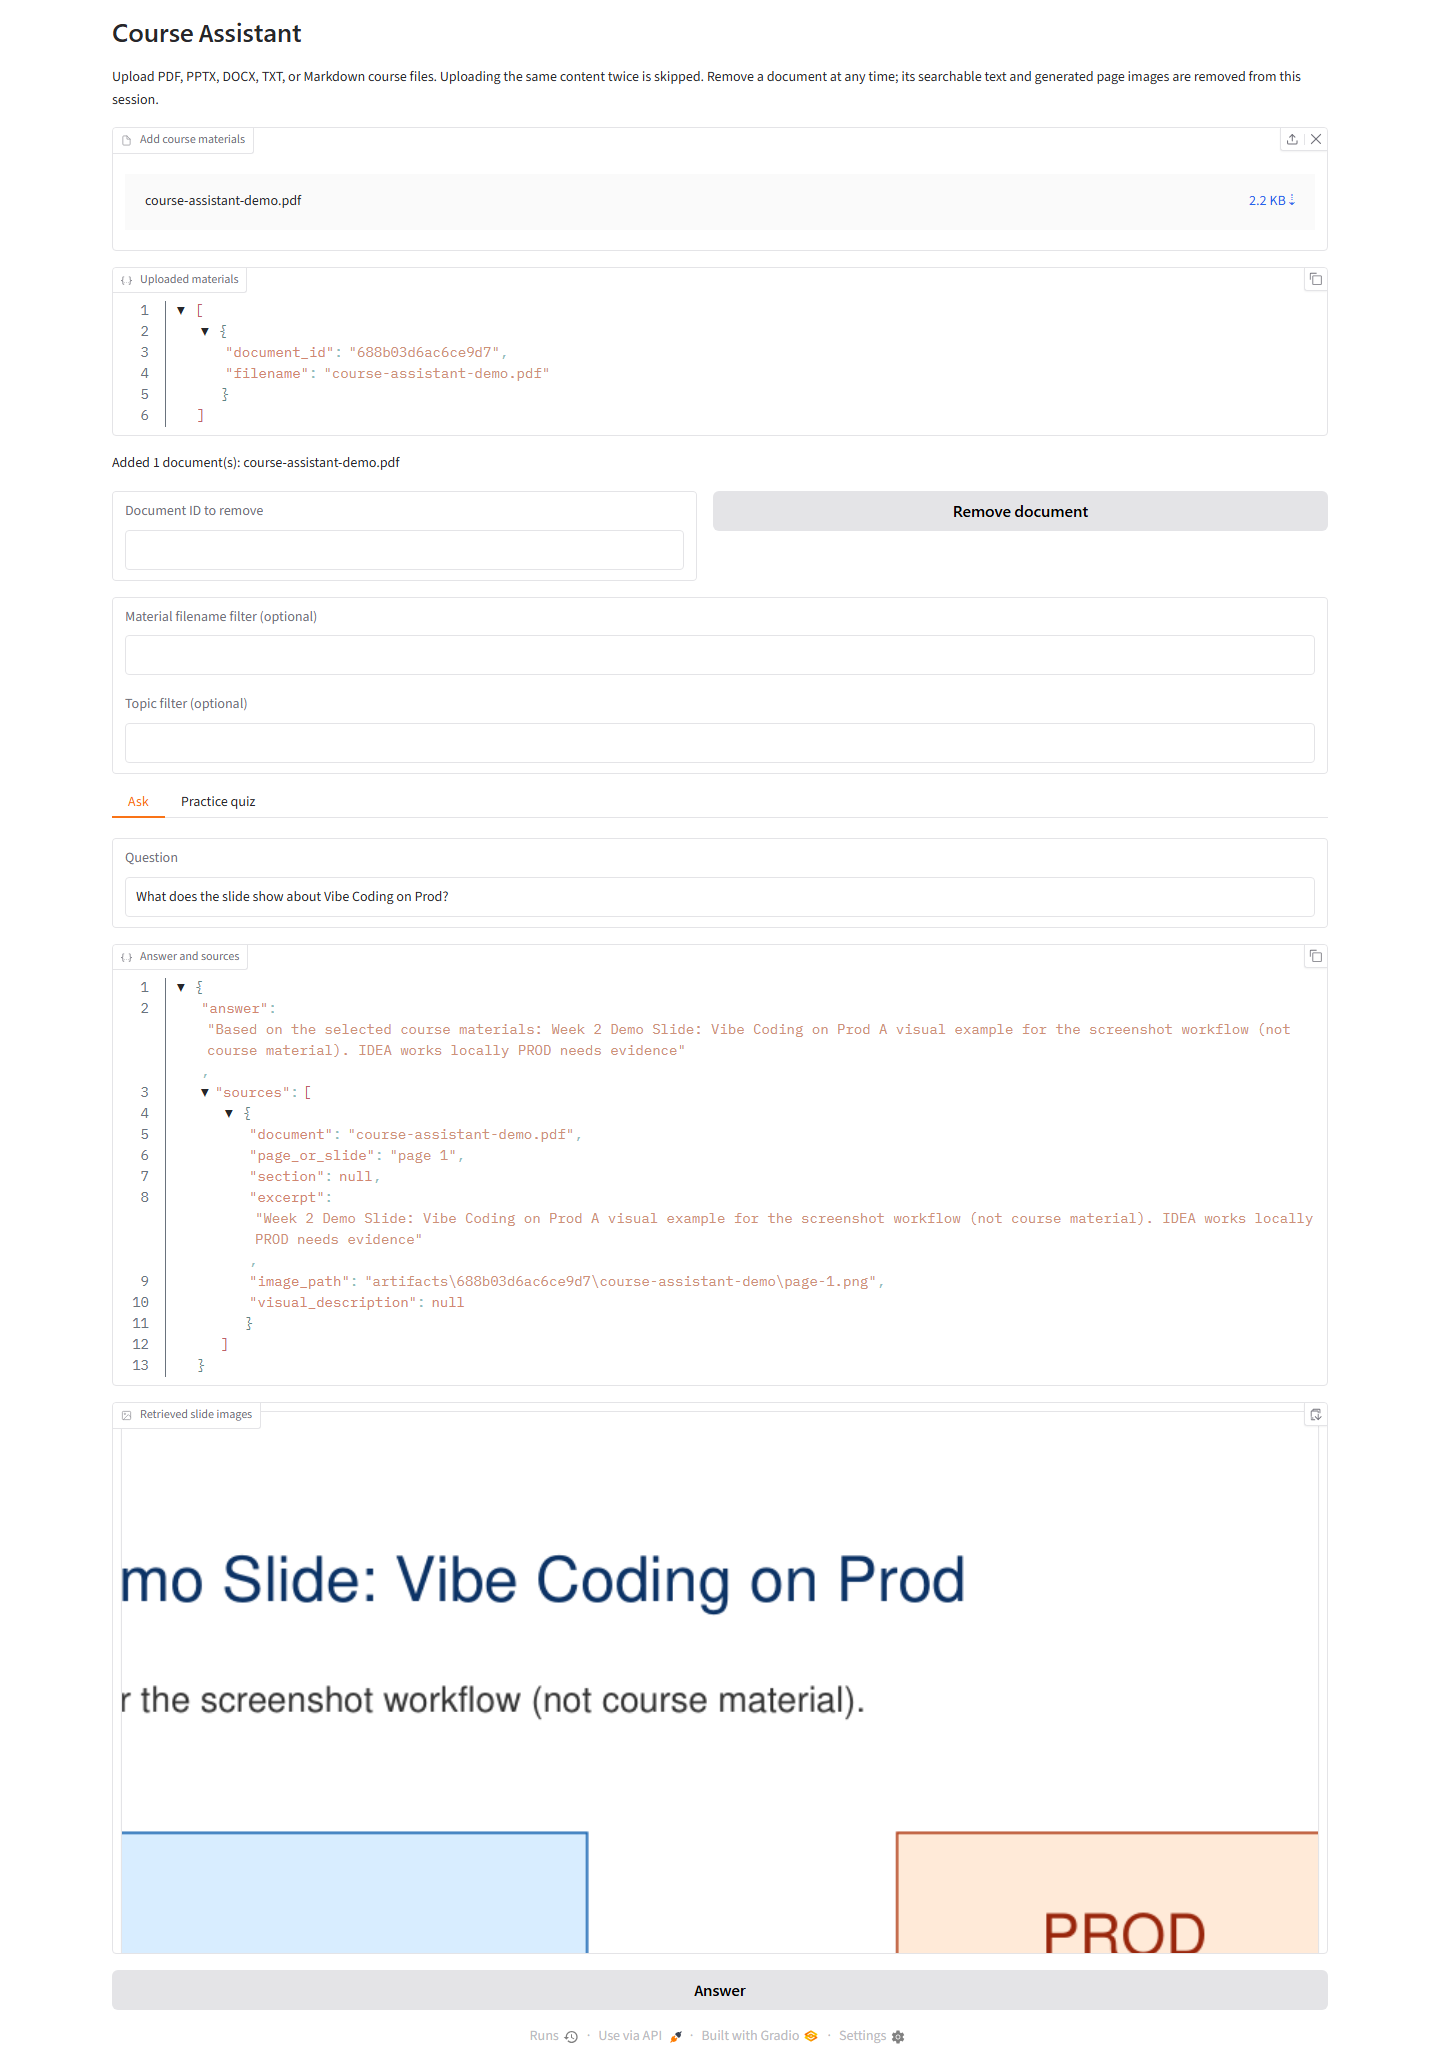
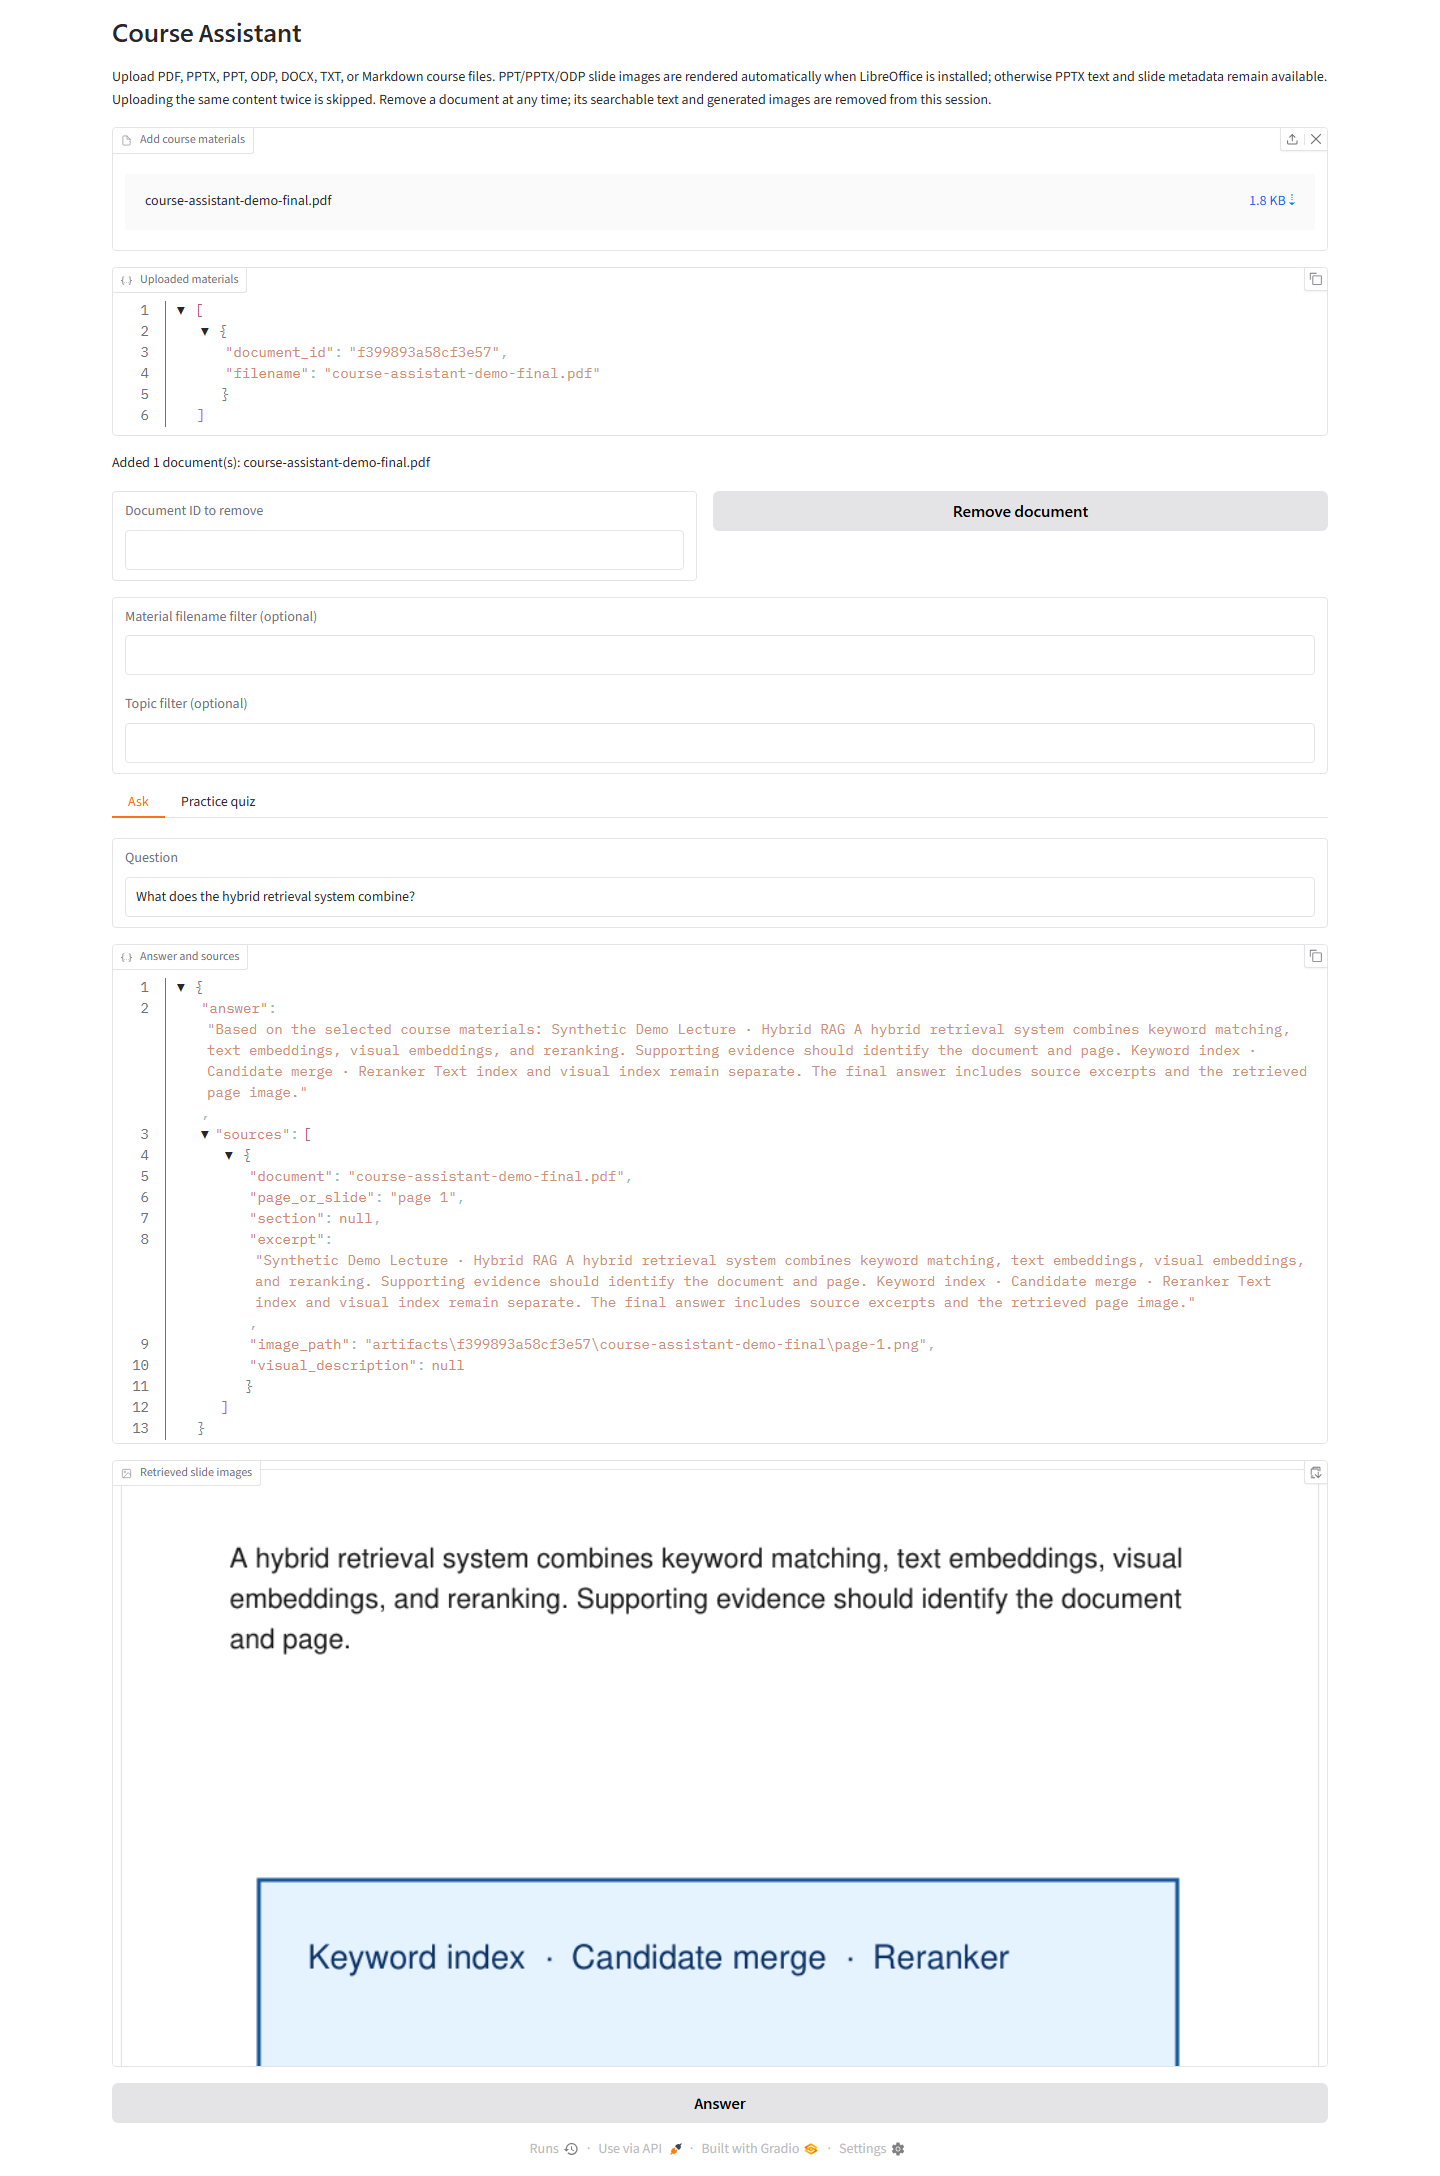
docs: refresh screenshots from final main app

diff --git a/README.md b/README.md
@@ -142,7 +142,7 @@ The assignment question set, comparison protocol, saved results, and investigate
 
 ## Screenshots
 
-Screenshots were captured from the running Gradio app using a synthetic, non-course demo PDF so no restricted Canvas content is redistributed. Replace these with permitted course-material captures before submission if the team has approval.
+These screenshots were refreshed from the merged `main` application at commit `09ee77a` using a clearly labeled synthetic, non-course demo PDF. They demonstrate the live app UI without redistributing restricted Canvas content. Replace them with permitted course-material captures before submission if the team has approval.
 
 ### Answer with retrieved slide
 
